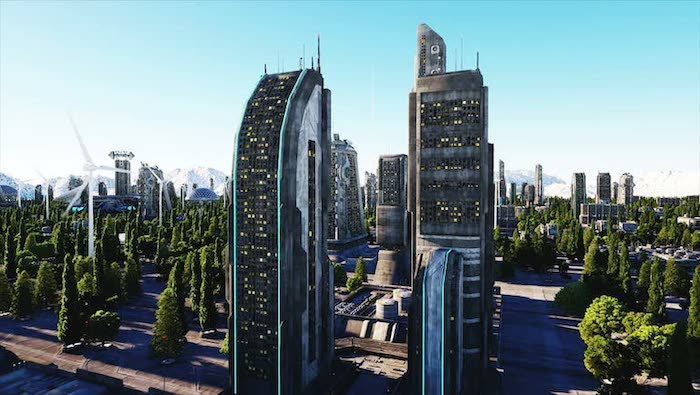
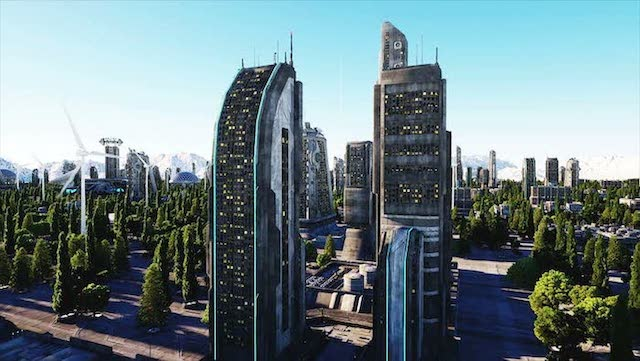
Resizing images

diff --git a/VFX_Photo_Style_Transfer/README.md b/VFX_Photo_Style_Transfer/README.md
@@ -1,6 +1,8 @@
 # Deep Photo Transfer for VFX
 
-This code aims to improve on the work of Fujun Luan, Sylvain Paris, Eli Shechtman and Kavita Bala in their paper "Deep Phot Style Transfer" (https://arxiv.org/abs/1703.07511). The code works well on the provided examples, but I have identified issues transering style between somewhat dissimilar images.
+### Context
+This code aims to improve on the work of Fujun Luan, Sylvain Paris, Eli Shechtman and Kavita Bala in their paper "Deep Photo Style Transfer" (https://arxiv.org/abs/1703.07511). 
+The code works well on the provided examples, but I have identified issues transering style between somewhat dissimilar images.
 
 For example, with the following images:
 
@@ -45,4 +47,23 @@ This is not evident in other photos, and suggests the following may not hold tru
 1) The particular style image is too complex and doesn't translate well to the source image domain
 1) The hyperparameters used for loss, etc. need modifying
 1) The configuration of VGG19, including loss metrics at various layers, needs re-working for a wider set of use cases
+
+Additionally, the algorithm appears to regress in performance at various stages of training, with later results worse than earlier ones
+
+### Aims
+
+The aim of this project is specifically:
+
+1) To develop my own variant of deep photo style transfer, specifically focusing on transfering style in the identified mask regions. 
+Note this could mean multiple runs through the transfer algorithm, with a "bring it all together" phase at the end (TBD)
+1) To determine the limits of style transfer with this kind of approach, using code that is more in tune with my development standards.
+1) To upskill on building complex computer vision algorithms, including the maths side of things!
+1) To provide a set of building blocks that can be used in future algorithms (including GANs)
+
+### Software stack
+
+The current plan is to develop this using Pytorch (latest), removing some of the legacy dependencies of the original Python code 
+(https://github.com/ray075hl/DeepPhotoStyle_pytorch) and moving away from LUA as per the original paper code (https://github.com/luanfujun/deep-photo-styletransfer).
+
+The basis of my style transfer algorithms will be based on deep neural style transfer and some elements of the deep photo style transfer code.
 
